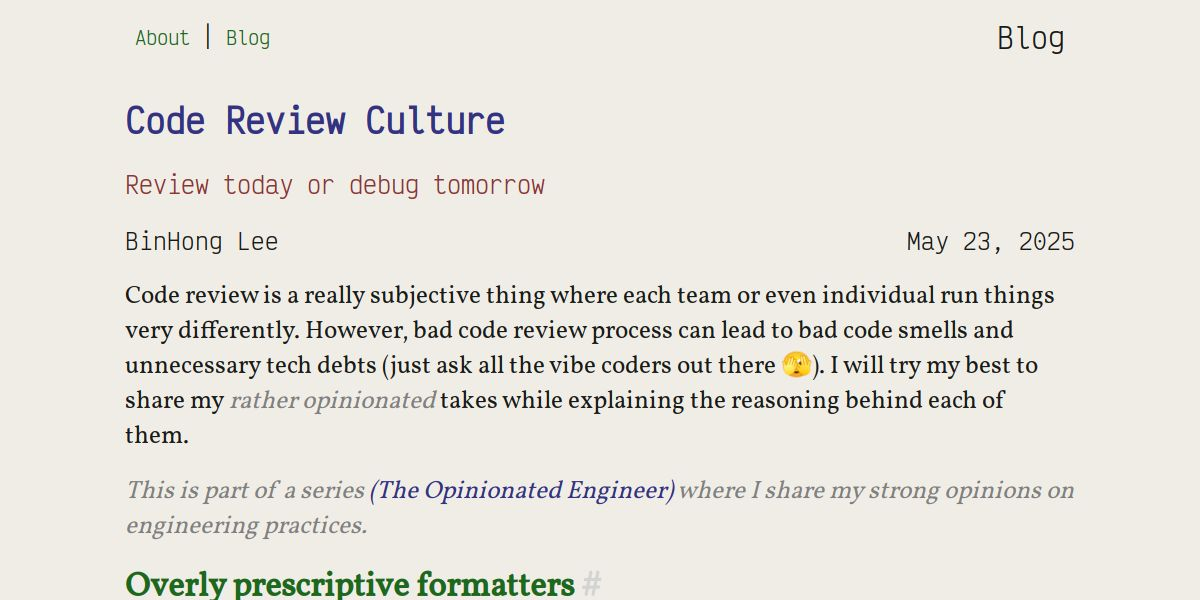
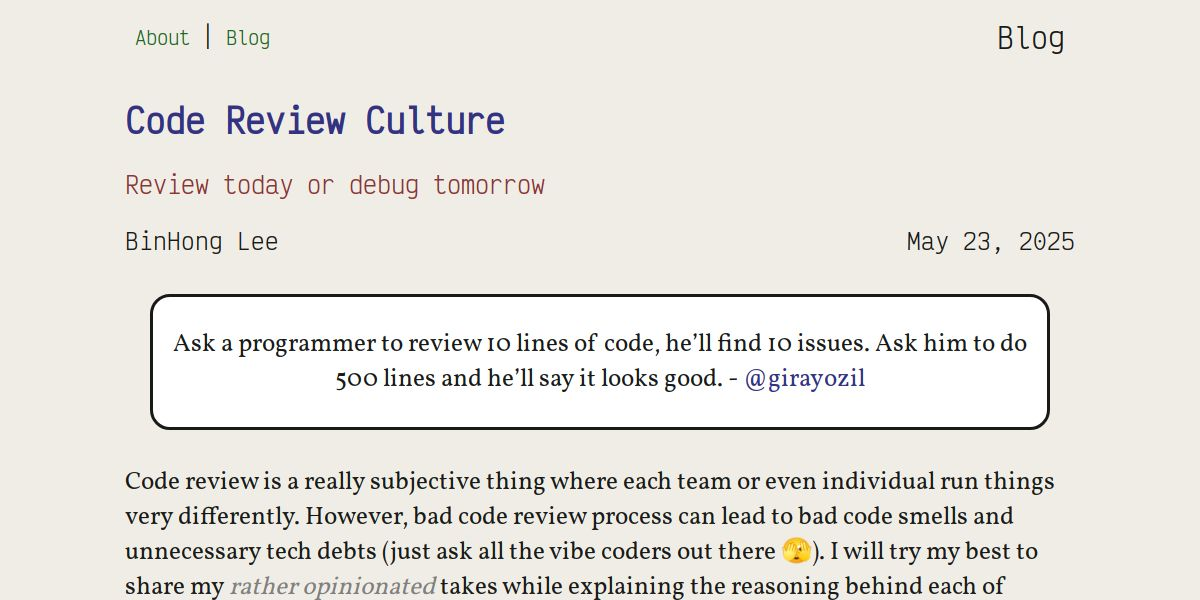
deploy: 9ee8481bfe3441e6568e52c6b3d0c0e99aa55823

Changed region(s): [[0.0925, 0.48, 0.8942, 0.75], [0.0925, 0.78, 0.8942, 1.0]]

diff --git a/2025-05-23-code-review-culture/index.html b/2025-05-23-code-review-culture/index.html
@@ -6,8 +6,9 @@
     
     <title>Code Review Culture - BinHong Lee&#39;s Blog</title>
     
-    <meta name="description" content="Code review is a really subjective thing where each team or even individual run things very differently. However, bad code review process can lead to bad code smells and unnecessary tech debts (just ask all the vibe coders out there 🫣). I will try my best to share my rather opinionated takes while explaining the reasoning behind each of them.
-This is part of a series (The Opinionated Engineer) where I share my strong opinions on engineering practices.">
+    <meta name="description" content="
+Ask a programmer to review 10 lines of code, he&rsquo;ll find 10 issues. Ask him to do 500 lines and he&rsquo;ll say it looks good. - @girayozil
+Code review is a really subjective thing where each team or even individual run things very differently. However, bad code review process can lead to bad code smells and unnecessary tech debts (just ask all the vibe coders out there 🫣). I will try my best to share my rather opinionated takes while explaining the reasoning behind each of them.">
     <meta property="og:type" content="article">
     <meta property="og:title" content="Code Review Culture">
     <meta property="og:description" content="Review today or debug tomorrow">
@@ -72,7 +73,9 @@ This is part of a series (The Opinionated Engineer) where I share my strong opin
             <p>BinHong Lee</p>
             <p class="right">May 23, 2025</p>
           </div>
-          <div class="post_content"><p>Code review is a really subjective thing where each team or even individual run things very differently. However, bad code review process can lead to bad code smells and unnecessary tech debts (just ask all the vibe coders out there 🫣). I will try my best to share my <em>rather opinionated</em> takes while explaining the reasoning behind each of them.</p>
+          <div class="post_content"><blockquote>
+<p>Ask a programmer to review 10 lines of code, he&rsquo;ll find 10 issues. Ask him to do 500 lines and he&rsquo;ll say it looks good. - <a href="https://x.com/girayozil/status/306836785739210752">@girayozil</a></p></blockquote>
+<p>Code review is a really subjective thing where each team or even individual run things very differently. However, bad code review process can lead to bad code smells and unnecessary tech debts (just ask all the vibe coders out there 🫣). I will try my best to share my <em>rather opinionated</em> takes while explaining the reasoning behind each of them.</p>
 <p><em>This is part of a series <a href="/blog/2025-05-04-the-opinionated-engineer/">(The Opinionated Engineer)</a> where I share my strong opinions on engineering practices.</em></p>
 <a class="anchor" href="#overly-prescriptive-formatters">
     <h2 id="overly-prescriptive-formatters">
@@ -87,16 +90,16 @@ This is part of a series (The Opinionated Engineer) where I share my strong opin
         <span class="tag">#</span>
     </h2>
 </a>
-<p>There were some research that finds that when someone is new to the stack / team / industry, reviewers are stricter and more nitpicky against their code changes relative to a long timer or a more senior engineer. Personally, I see this as a feature instead of a bug. A long timer has earned their reputation (assuming that&rsquo;s how they are a long timer and not just a bad engineer successfully avoiding accountability at every turn) and can be afforded to be treated with more leniency in their code. A <em>newbie</em> however benefits from stricter code review feedback teaching them the style and tradeoffs the team values when it comes to coding patterns thus learning good practice along the way.</p>
-<p>In an ideal world, teams would have detailed style guide on how everything is written and every new person will be given ample time to read and understand them as part of onboarding. But the reality is that, this rarely happens between the outdated style guides and the lack of proper onboarding process, code review frequently became the first time a new person has the opportunity to learn about a team&rsquo;s style guide (aside from linters and formatters). Let&rsquo;s make sure to get it right so they don&rsquo;t develop the wrong practice.</p>
+<p>There were some research that finds that when someone is new to the stack / team / industry, reviewers tends to be stricter and more nitpicky against their code changes relative to a long timer or a more senior engineer. Personally, I see this as a feature instead of a bug. A long timer has earned their reputation (assuming that&rsquo;s how they are a long timer and not just a bad engineer successfully avoiding accountability at every turn) and can be afforded to be treated with more leniency in their code. A <em>newbie</em> however benefits from stricter code review feedback teaching them the style and tradeoffs the team values when it comes to coding patterns thus learning good practice along the way.</p>
+<p>In an ideal world, teams would have detailed style guide on how everything is written and every new person will be given ample time to read and understand them as part of onboarding. But the reality is that, this rarely happens between the outdated style guides and the lack of proper onboarding process, code review frequently became the first time a new person has the opportunity to learn about a team&rsquo;s style guide (aside from linters and formatters). Let&rsquo;s make sure to get it right so they don&rsquo;t develop the wrong habit.</p>
 <a class="anchor" href="#never-blindly-accept--accept-to-unblock">
     <h2 id="never-blindly-accept--accept-to-unblock">
         <span class="text">Never blindly accept / accept to unblock</span>
         <span class="tag">#</span>
     </h2>
 </a>
-<p>These are generally two separate scenarios but their result is generally the same. A change that is otherwise not meeting the code review bar is getting accepted and pushed to production. Blind accept generally reflects more of a bad team culture where people either don&rsquo;t take code review seriously or they don&rsquo;t feel comfortable pushing back in code review, both of which are bad. &ldquo;Accept to unblock&rdquo; generally comes with good intention but doing so essentially voided the role of a reviewer. The most common reason for it&rsquo;s use is due to reviewers not comfortable blocking a change but do not wish to take responsibility if that ended up being the bad commit causing an outage.</p>
-<p>The <strong>only</strong> exception here would be when it&rsquo;s a <em>time sensitive</em> where &ldquo;it can&rsquo;t be worse than it is now&rdquo; <strong>and</strong> that the author is the <em>domain expert</em> of the change. Most common example being a code change attempting to mitigate on ongoing a production issue. (I&rsquo;ll write up an incident runbook at some point which will most likely include this.)</p>
+<p>These are generally two separate scenarios but their result is generally the same. A change that is otherwise not meeting the code review bar is getting accepted and pushed to production. Blind accept generally reflects more of a bad team culture where people either don&rsquo;t take code review seriously or they don&rsquo;t feel comfortable pushing back in code review, both of which are bad. &ldquo;Accept to unblock&rdquo; generally comes with good intention but doing so essentially voided the role of a reviewer. The most common reason for it&rsquo;s use is due to reviewers not feeling comfortable about blocking a change but do not wish to take responsibility if that ended up being the bad commit causing an outage.</p>
+<p>The <strong>only</strong> exception here would be when it&rsquo;s a <em>time sensitive</em> change where &ldquo;it can&rsquo;t be worse than it is now&rdquo; <strong>and</strong> that the author is the <em>domain expert</em> of the change. Most common example being a code change attempting to mitigate an ongoing production issue. (I&rsquo;ll write up an incident runbook at some point which will most likely include this.)</p>
 <a class="anchor" href="#ask-for-further-details">
     <h2 id="ask-for-further-details">
         <span class="text">Ask for further details</span>
@@ -111,7 +114,7 @@ This is part of a series (The Opinionated Engineer) where I share my strong opin
         <span class="tag">#</span>
     </h2>
 </a>
-<p>In some occasions, you might run into response in your review that they will &ldquo;fix it in a future change&rdquo;. (Generally, it&rsquo;s more common in scenarios where your work adopts the idea of <a href="https://graphite.dev/guides/stacked-diffs">&ldquo;stacked diffs&rdquo;</a>.) This is a bad pattern that should be avoided at large (unless <em>absolutely necessary</em>) mainly because this change now hinges on a separate future changes to be <strong>correct</strong>, and that the other change could be independently reverted - for any external reasons - without this change, thus causing this bad pattern to now persist in your code.</p>
+<p>In some occasions, you might run into response in your review that they will &ldquo;fix it in a future change&rdquo;. (Generally, it&rsquo;s more common in scenarios where your work adopts the idea of <a href="https://graphite.dev/guides/stacked-diffs">&ldquo;stacked diffs&rdquo;</a>.) This is a bad pattern that should be avoided at large (unless <em>absolutely necessary</em>) mainly because this change now hinges on a separate future changes to be <strong>correct</strong>, and that the other change could be independently reverted - for any external reasons - without this change, thus causing this bad pattern to now persist in your codebase.</p>
 <a class="anchor" href="#involve-the-subject-matter-expert">
     <h2 id="involve-the-subject-matter-expert">
         <span class="text">Involve the Subject Matter Expert</span>
